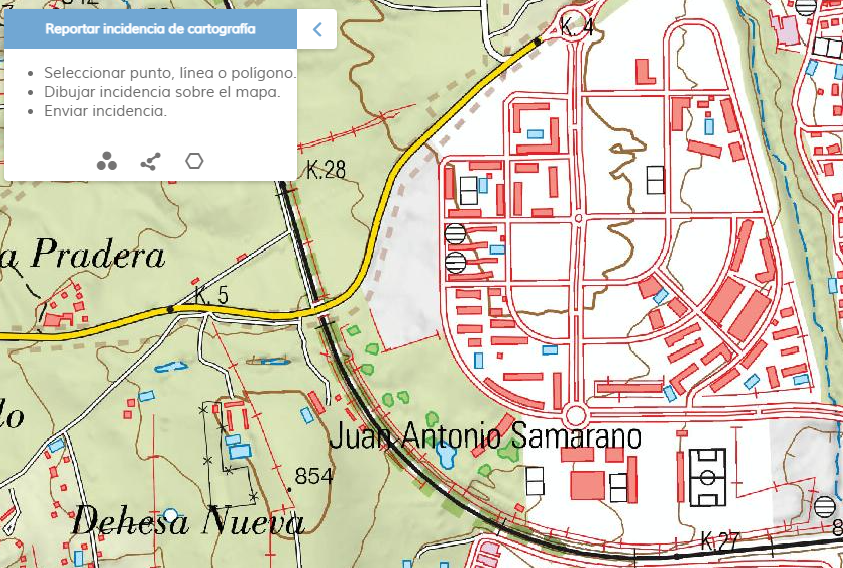
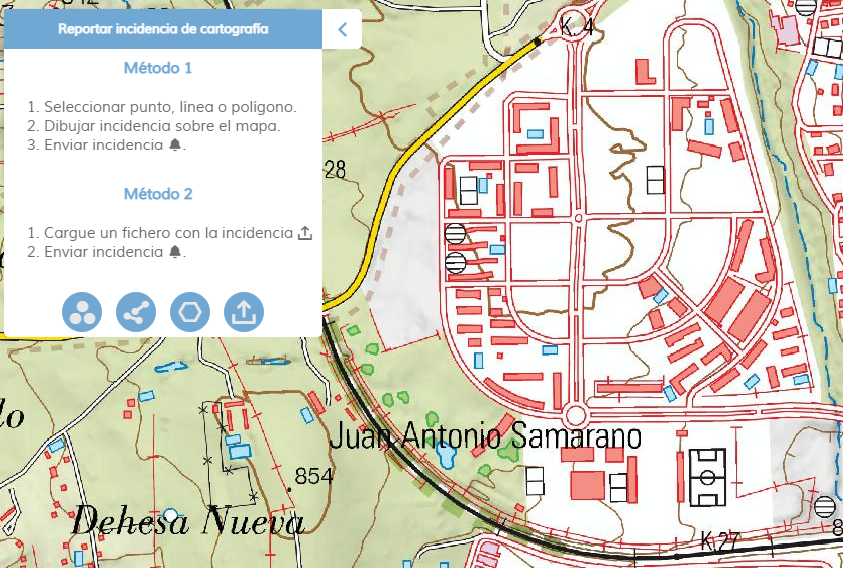
(feat): inclusión nombre, geometría formateada, datos como atributosnivel de zoom y BOOX, mejora en el deiseño de botones

Changed region(s): [[0.0, 0.0, 0.4318, 0.5986]]

diff --git a/api-ign-js/src/plugins/incicarto/src/facade/js/incicartocontrol.js b/api-ign-js/src/plugins/incicarto/src/facade/js/incicartocontrol.js
@@ -169,6 +169,9 @@ export default class IncicartoControl extends M.Control {
     this.geometryIncidenceX = 0;
     this.geometryIncidenceY = 0;
 
+    this.documentRead_ = document.createElement('img');
+    this.canvas_ = document.createElement('canvas');
+
   }
 
   /**
@@ -505,6 +508,7 @@ export default class IncicartoControl extends M.Control {
     setTimeout(() => {
 
       document.querySelector("#m-plugin-incicarto-send-email").addEventListener('click',(e)=>{
+        console.log("composeMailtoSend");
         let destinataryContainer = document.querySelector("#email-to");
         let destinatary = destinataryContainer.options[destinataryContainer.selectedIndex].value;
         let mailto_composed = this.composeMailtoSend(destinatary)
@@ -564,15 +568,18 @@ export default class IncicartoControl extends M.Control {
     setTimeout(() => {
 
       document.querySelector("#m-plugin-incicarto-simple-send-email").addEventListener('click',(e)=>{
+        
         let mailto_composed = this.composeSimpleMailtoSend()
         if (mailto_composed===false){
           console.log("El mail no ha sido validado");
           return;
         }
-        //window.open(mailto_composed,'emailWindow');
+
+        //window.open(mailto_composed,'emailWindow');//e2m: Activamos. Con esto abrimos outlook para ver qué correo enviamos. Comentar Después
+
         // document.querySelector('div.m-mapea-container div.m-dialog').remove(); // Así cerramos a lo loco
         document.querySelector("#m-plugin-incicarto-simple-send-email").disabled = true;
-        this.showMessageInModalAdvanced("El correo con la incidencia se ha enviado correctamente.","okmessage");
+        this.showMessageInModalAdvanced("El correo con la incidencia se ha enviado correctament.","okmessage");
       });
 
       document.getElementById('fileUpload').onchange = function () {
@@ -655,6 +662,7 @@ export default class IncicartoControl extends M.Control {
    */
   composeMailtoSend(destinatary) {
 
+    
     let themeMetadataContainer = document.querySelector("#theme-select");
     let errorMetadataContainer = document.querySelector("#error-select");
     let productMetadataContainer = document.querySelector("#product-select");
@@ -694,12 +702,107 @@ export default class IncicartoControl extends M.Control {
     return true;
   }
 
+
   /**
    * Compone el mensaje para el correo enviado por el interfaz Modal Simple
    *
    * @returns
    */
   composeSimpleMailtoSend() {
+
+
+    //const screenshotTarget = document.body;
+    // const screenshotTarget =document.querySelector("#mapjs");
+    // html2canvas(screenshotTarget).then((canvas) => {
+    //     const base64image = canvas.toDataURL("image/png");
+    //     //window.location.href = base64image;
+    //     console.log(base64image);
+    // });
+
+
+    // Intentandpo capturar pantalla
+    /**
+     * 
+     * https://programming.vip/docs/the-solution-of-canvas.todataurl-error-reporting-is-all-here.html
+     * https://stackoverflow.com/questions/64862027/how-i-put-the-canvas-content-as-a-file-in-a-input-type-file
+     */
+/*
+    const mapCanvas = document.createElement('canvas');
+    const size = this.map_.getImpl().map_.getSize()
+
+    console.log(this.map_.getImpl().map_.getSize());
+    mapCanvas.width = size[0];
+    mapCanvas.height = size[1];
+    const mapContext = mapCanvas.getContext('2d');
+    Array.prototype.forEach.call(
+      this.map_.getImpl().map_.getViewport().querySelectorAll('.ol-layer canvas, canvas.ol-layer'),
+      function (canvas) {
+        
+        if (canvas.width > 0) {
+          const opacity =  canvas.parentNode.style.opacity || canvas.style.opacity;
+          mapContext.globalAlpha = opacity === '' ? 1 : Number(opacity);
+  
+          const backgroundColor = canvas.parentNode.style.backgroundColor;
+          if (backgroundColor) {
+            mapContext.fillStyle = backgroundColor;
+            mapContext.fillRect(0, 0, canvas.width, canvas.height);
+          }
+  
+          let matrix;
+          const transform = canvas.style.transform;
+          if (transform) {
+            // Get the transform parameters from the style's transform matrix
+            matrix = transform
+              .match(/^matrix\(([^\(]*)\)$/)[1]
+              .split(',')
+              .map(Number);
+          } else {
+            matrix = [
+              parseFloat(canvas.style.width) / canvas.width,
+              0,
+              0,
+              parseFloat(canvas.style.height) / canvas.height,
+              0,
+              0,
+            ];
+          }
+          // Apply the transform to the export map context
+          CanvasRenderingContext2D.prototype.setTransform.apply(
+            mapContext,
+            matrix
+          );
+          canvas.setAttribute('crossorigin', 'anonymous');
+          mapContext.drawImage(canvas, 0, 0);
+          console.log("Relleno");
+        }
+      }
+    );
+    mapContext.globalAlpha = 1;
+
+    if (navigator.msSaveBlob) {
+      // link download attribute does not work on MS browsers
+      navigator.msSaveBlob(mapCanvas.msToBlob(), 'map.png');
+    } else {
+      const link = document.getElementById('image-download');
+      link.href = mapCanvas.toDataURL();
+      link.click();
+    }
+
+
+    // mapCanvas.toBlob( (blob) => {
+    //   const file = new File( [ blob ], "mycanvas.png" );
+    //   const dT = new DataTransfer();
+    //   dT.items.add( file );
+    //   document.querySelector( "input" ).files = dT.files;
+    // } );
+    
+
+
+
+
+    return false
+*/
+
 
     const themeMetadataContainer = document.querySelector("#theme-select");
     if (this.errThemes.mandatory===true && themeMetadataContainer.selectedIndex===-1){
@@ -709,38 +812,59 @@ export default class IncicartoControl extends M.Control {
 
     let theme = themeMetadataContainer.options[themeMetadataContainer.selectedIndex].value;
     let destinatary = this.themes.find(item => item.idTheme == theme).emailTheme;
-    let errDescription = document.querySelector("#err-description").value;
     let email_subject = 'Metadatos de la incidencia';
+    let emailName = document.querySelector("#person-notify").value;
+    let emailUser = document.querySelector("#email-notify").value;
+    let errDescription = document.querySelector("#err-description").value;
 
     const { x, y } = this.map_.getCenter();
     const { code, units } = this.map_.getProjection();
     let shareURL = `?center=${x},${y},zoom=${this.map_.getZoom()}`;
     shareURL = shareURL.concat(`,projection=${code}*${units}`);
 
-    let email_body = {
-      "description": errDescription,
+    let propiedades_incidencia = {
+      "email_subject": email_subject,
       "theme": theme,
-      "geometry": this.geometryIncidenceJSON,
-    };
+      "destinatary": destinatary,
+      "emailName": emailName,
+      "emailUser": emailUser,
+      "errDescripcion": errDescription,
+      "URL": window.location.href,
+      "paramsURL": encodeURI(shareURL),
+    }
+    //console.log(this.map_.getLayers());
+    //console.log(propiedades_incidencia);
 
-/*    console.log(`mailto: ${destinatary}`);
-    console.log(`subject: ${email_subject}`);
-    console.log(JSON.stringify(this.geometryIncidenceJSON));*/
+    if (this.geometryIncidenceJSON.features.length>0){
+      this.geometryIncidenceJSON.features[0].properties=propiedades_incidencia;
+    }
 
+    // e2m: empaquetamos los datos para la pasarela
+    // ----------------------------------------------------------------------------------------------------------
     let emailForm = document.querySelector("#m-plugin-incicarto-email-form");
     emailForm.action = `${M.config.MAPEA_URL}api/email`;
     document.querySelector("#m-plugin-incicarto-email-subject").value = email_subject;
     document.querySelector("#m-plugin-incicarto-email-mailto").value = destinatary;
-    document.querySelector("#m-plugin-incicarto-email-body").value = JSON.stringify(email_body, null, '\t');
+
+    document.querySelector("#m-plugin-incicarto-email-sendername").value = emailName;
+    document.querySelector("#m-plugin-incicarto-email-senderemail").value = emailUser;
+    document.querySelector("#m-plugin-incicarto-email-errDescription").value = errDescription;
+    document.querySelector("#m-plugin-incicarto-email-sendergeometry").value = JSON.stringify(this.geometryIncidenceJSON);
+    document.querySelector("#m-plugin-incicarto-email-shareURL").value = shareURL;
+
+    document.querySelector("#m-plugin-incicarto-email-body").value = JSON.stringify(this.geometryIncidenceJSON, null, '\t');
+
     let inputFile = document.querySelector('#fileUpload');
     if(inputFile.files.length > 0){
       let inputFileForm = document.querySelector('#fileUploadForm');
       inputFileForm.files = inputFile.files;
     }
-    emailForm.submit();
 
-    //return 'mailto:' + destinatary + '?subject=' + email_subject + '&body=' + JSON.stringify(this.geometryIncidenceJSON);
-    return true;
+    emailForm.submit(); //e2m: desactivamos
+    // ----------------------------------------------------------------------------------------------------------
+
+    //return 'mailto:' + destinatary + '?subject=' + email_subject + '&body=' + JSON.stringify(this.geometryIncidenceJSON);//e2m: activamos
+    return true; //e2m: desactivamos
   }
 
   /**

diff --git a/api-ign-js/src/plugins/incicarto/src/templates/modalsimple.html b/api-ign-js/src/plugins/incicarto/src/templates/modalsimple.html
@@ -18,6 +18,10 @@
             {{/if}}
             <div id="m-incicarto-metadata-description" class="m-plugin-incicarto-form">
                       <div class="m-plugin-incicarto-form-input-group">
+                        <label for="person-notify">Nombre</label>
+                        <input id="person-notify" type="text" name="person-notify" placeholder="Nombre para seguimiento"></input> 
+                      </div>
+                      <div class="m-plugin-incicarto-form-input-group">
                         <label for="email-notify">Notificaciones de seguimiento</label>
                         <input id="email-notify" type="email" name="email-notify" placeholder="Correo electrónico para seguimiento"></input> 
                       </div>
@@ -43,16 +47,23 @@
             <div class="m-plugin-incicarto-html">
                 <p>Respecto al tratamiento de sus datos personales para el seguimiento, consulte el apartado 
                   <a href="https://www.cnig.es/proteccionDatos" target="_blank">Privacidad y protección de datos</a> en la web del CNIG.</p>
+                <br/>
+                <a id="image-download" hdownload="map.png">Descargeue la imagen del mapa para enviarla como fichero adjunto</a>
             </div>
  
             <div class="m-plugin-incicarto-html">
                 <button id="m-plugin-incicarto-simple-send-email">{{translations.btntext1}}</button>
             </div>
             <!-- Se crea un form multipart para que se puedan enviar archivos adjuntos en el email -->
-            <form id="m-plugin-incicarto-email-form" action="/api/email" method="post"
-            enctype="multipart/form-data" target="form-target" style="display:none">
+            <form id="m-plugin-incicarto-email-form" action="/api/email" method="post" enctype="multipart/form-data" target="form-target" style="display:none">
             <input type="hidden" id="m-plugin-incicarto-email-subject" name="subject" value=""/>
             <input type="hidden" id="m-plugin-incicarto-email-mailto" name="mailto" value=""/>
+            <input type="hidden" id="m-plugin-incicarto-email-sendername" name="sendername" value=""/>
+            <input type="hidden" id="m-plugin-incicarto-email-senderemail" name="senderemail" value=""/>
+            <input type="hidden" id="m-plugin-incicarto-email-errDescription" name="errDescription" value=""/>
+            <input type="hidden" id="m-plugin-incicarto-email-sendergeometry" name="sendergeometry" value=""/>
+            <input type="hidden" id="m-plugin-incicarto-email-shareURL" name="shareURL" value=""/>
+
             <input type="hidden" id="m-plugin-incicarto-email-body" name="body" value=""/>
             <input type="file" name="file" id="fileUploadForm" class="inputfile" data-multiple-caption="{count} ficheros seleccionados" multiple="" hidden="">
           </form>

diff --git a/api-ign-js/src/plugins/incicarto/src/facade/assets/css/incicarto.css b/api-ign-js/src/plugins/incicarto/src/facade/assets/css/incicarto.css
@@ -41,13 +41,17 @@ div.m-area.m-left > div.m-panel.m-incicarto.collapsed > button {
   box-shadow: 0 2px 4px rgba(0,0,0,.2), 0 -1px 0 rgba(0,0,0,.02) !important;
 }
 
+/*
+Difinición de los botnes de acción
+*/
+
 div.m-panel.m-incicarto>div.m-panel-controls>div.m-incicarto>div#m-incicarto-actions>button  {
     background-color: #71a7d3; /*white;*/
     color: rgb(232, 232, 232);/*rgb(117, 116, 116);*/
-    /*border: none;*/
-    font-size: 30px;
+    border: none;
+    font-size: 25px;
     height: 40px;
-    width: 60px;
+    width: 40px;
     margin: 5px;
     border-radius: 20px;
 }
@@ -917,7 +921,7 @@ span.m-incicarto-3d-measure:hover {
 .m-plugin-incicarto-html {
   display: flex;
   justify-content: center;
-  /* padding-top: 10px; */
+  padding-right: 10px;/* Dejamos un poquito de espacio a la derecha */
   font-size: 15px;
   align-items: baseline;
   margin-bottom: 5px;
@@ -958,7 +962,8 @@ span.m-incicarto-3d-measure:hover {
 }
 
 .m-plugin-incicarto-html p {
-  padding: 0px;
+  /*padding: 0px;*/
+  padding-right: 10px;
 }
 
 .m-plugin-incicarto-html p.okmessage {
@@ -1041,6 +1046,41 @@ span.m-incicarto-3d-measure:hover {
   color: #0000ff;
   resize: none;
 }
+
+.m-plugin-incicarto-form-input-group input[type=text]{
+
+  margin: 5px;
+  padding: 5px;
+  background-color: transparent;
+  cursor: auto;
+  border-radius: 4px;
+  border: 1px solid rgba(0,0,0,.5);
+  -webkit-appearance: none;
+  -moz-appearance: none;
+  appearance: none;
+  color: #6c6c6c;
+  font-family: Muli,"sans-serif"!important;
+  font-size: 13px;
+
+}
+
+.m-plugin-incicarto-form-input-group input[type=email]{
+
+  margin: 5px;
+  padding: 5px;
+  background-color: transparent;
+  cursor: auto;
+  border-radius: 4px;
+  border: 1px solid rgba(0,0,0,.5);
+  -webkit-appearance: none;
+  -moz-appearance: none;
+  appearance: none;
+  color: #6c6c6c;
+  font-family: Muli,"sans-serif"!important;
+  font-size: 13px;
+
+}
+
 
 
 /**************************
